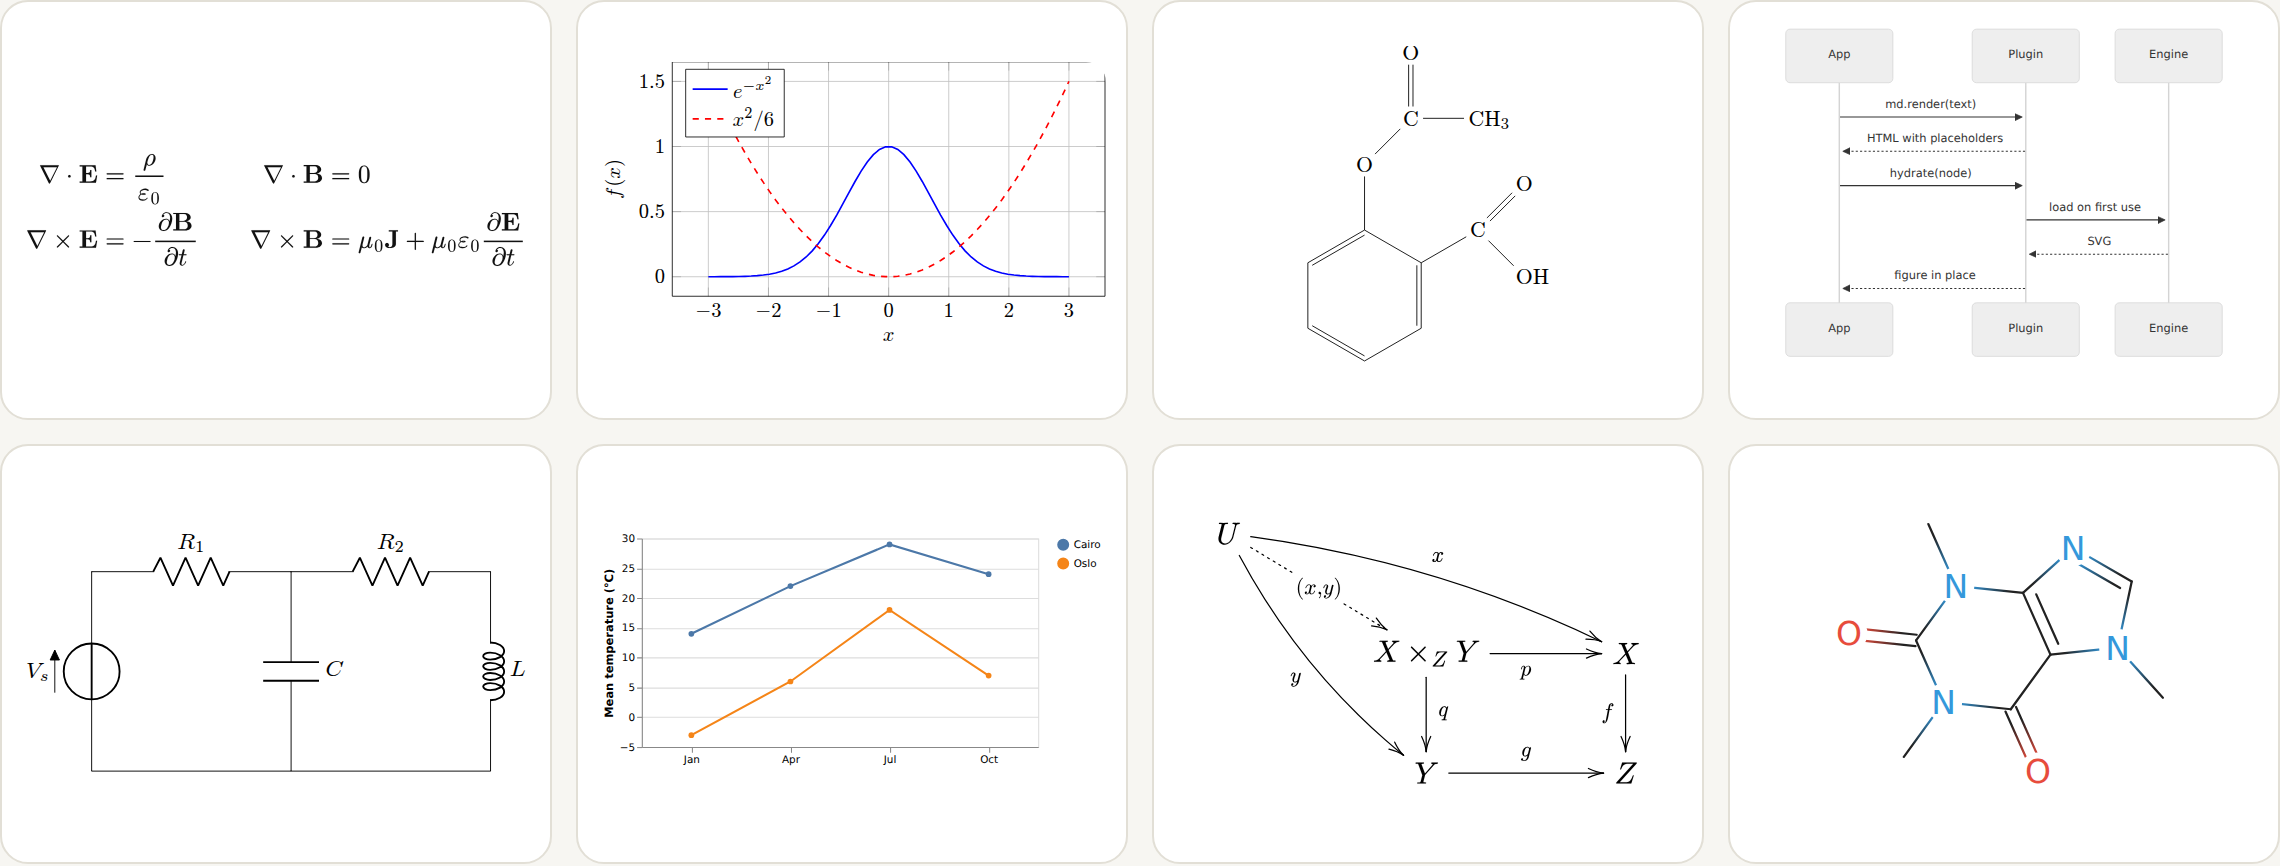
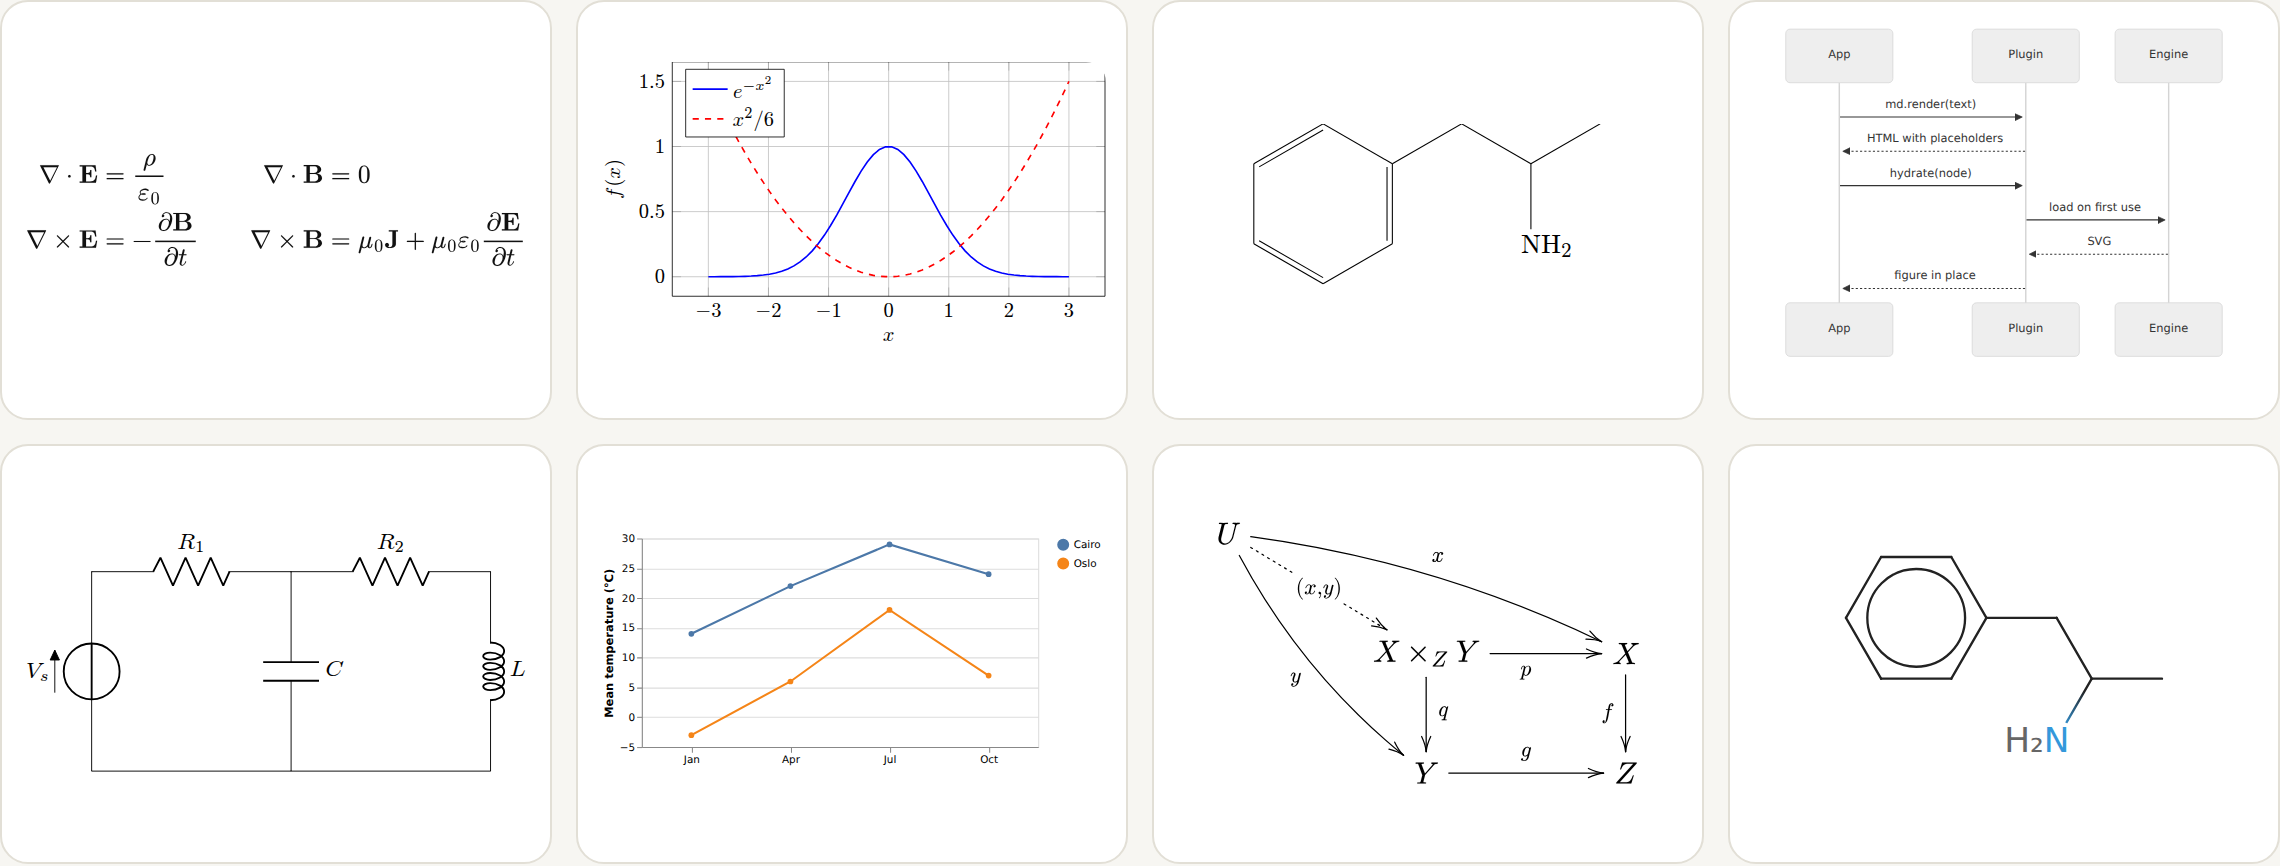
Add analytics, sponsor links and amphetamine to the chemistry examples
- site: GoatCounter script, GitHub Sponsors button in the footer
- .github/FUNDING.yml for the repo's Sponsor button
- chemfig and SMILES examples now draw amphetamine; README images redrawn

Model: Anthropic claude-fable-5-2
Prompt: also add this to the site: <the GoatCounter count.js script tag>
also add funding.yml to repo for github profile and include Sponsor gh embed somewhere in website as well.
also in chemistry examples show Amphetamine

diff --git a/site/src/examples.js b/site/src/examples.js
@@ -77,8 +77,8 @@ $$` },
   \draw (0,0) to[V, v=$V_s$] (0,3) to[R, l=$R_1$] (3,3) to[C, l=$C$] (3,0) -- (0,0);
   \draw (3,3) to[R, l=$R_2$] (6,3) to[L, l=$L$] (6,0) -- (3,0);
 \end{circuitikz}`) },
-  { id: 'chemfig', group: 'tikz', title: 'chemfig', md: fence('tikz', r`
-\chemfig{*6(=-=(-C(=[1]O)-[7]OH)-(-O-[1]C(=[2]O)-[0]CH_3)=-)}`) },
+  { id: 'chemfig', group: 'tikz', title: 'chemfig: amphetamine', md: fence('tikz', r`
+\chemfig{*6(=-=(-[:30]-[:-30](-[6]NH_2)-[:30])-=-)}`) },
   { id: 'surface', group: 'tikz', title: 'pgfplots: 3D surface', md: fence('tikz', r`
 \begin{tikzpicture}
 \begin{axis}[width=9cm, height=6.4cm, view={45}{35}, xlabel=$x$, ylabel=$y$]
@@ -141,7 +141,7 @@ M:4/4
 L:1/4
 K:C
 E E F G | G F E D | C C D E | E3/2 D/2 D2 |`) },
-  { id: 'smiles', group: 'figures', title: 'Molecule from SMILES', md: fence('smiles', 'CN1C=NC2=C1C(=O)N(C(=O)N2C)C') },
+  { id: 'smiles', group: 'figures', title: 'Molecule from SMILES: amphetamine', md: fence('smiles', 'CC(N)Cc1ccccc1') },
   { id: 'svg', group: 'figures', title: 'Raw SVG, sanitised', md: fence('svg', `
 <svg viewBox="0 0 220 120" xmlns="http://www.w3.org/2000/svg">
   <defs><linearGradient id="g" x1="0" x2="1">

diff --git a/site/index.html b/site/index.html
@@ -82,8 +82,10 @@ const css = md.latexPlus.css()</code></pre>
   </main>
 
   <footer>
+    <iframe class="sponsor" src="https://github.com/sponsors/multipleof4/button" title="Sponsor multipleof4" height="32" width="114"></iframe>
     <p>Made for <a href="https://github.com/sune-org/sune">Sune</a>. Stands on MathJax, TikZJax, Mermaid, Graphviz, Vega-Lite, abcjs, SmilesDrawer and DOMPurify.</p>
   </footer>
   <script type="module" src="/src/main.js"></script>
+  <script data-goatcounter="https://markdown-it-latex-plus.goatcounter.com/count" async src="//gc.zgo.at/count.js"></script>
 </body>
 </html>

diff --git a/site/src/style.css b/site/src/style.css
@@ -72,6 +72,7 @@ h3 { font-size: 16px; margin: 0; letter-spacing: 0 }
 .use p, .more { color: var(--soft); margin: 0 }
 .more { margin-top: 18px }
 footer { border-top: 1px solid var(--line); padding: 26px 20px 40px; text-align: center; color: var(--soft); font-size: 14px }
+.sponsor { display: block; margin: 0 auto 14px; border: 0; border-radius: 6px }
 
 @media (max-width: 860px) {
   .glance { grid-template-columns: repeat(2, 1fr) }

diff --git a/docs/figures.md b/docs/figures.md
@@ -98,11 +98,11 @@ E E F G | G F E D | C C D E | E3/2 D/2 D2 |
 
 ````md
 ```smiles
-CN1C=NC2=C1C(=O)N(C(=O)N2C)C
+CC(N)Cc1ccccc1
 ```
 ````
 
-One molecule as a [SMILES](https://en.wikipedia.org/wiki/Simplified_Molecular_Input_Line_Entry_System) string. `smiles: { width, height, theme }` adjusts the drawing.
+One molecule (here amphetamine) as a [SMILES](https://en.wikipedia.org/wiki/Simplified_Molecular_Input_Line_Entry_System) string. `smiles: { width, height, theme }` adjusts the drawing.
 
 For reaction equations use `\ce{…}` in math; for hand-drawn structures use `\chemfig` in a `tikz` block.
 
